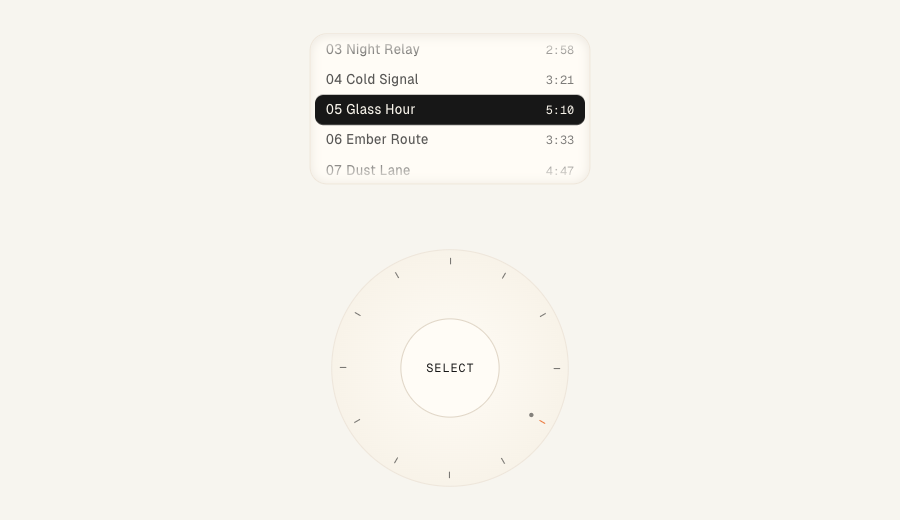
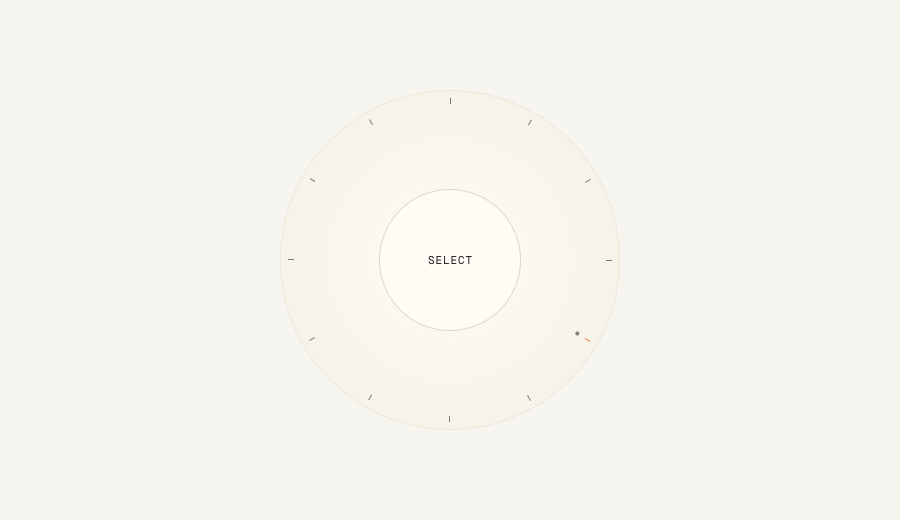
Pose the click wheel preview around the wheel

diff --git a/app/controls/click-wheel/page.tsx b/app/controls/click-wheel/page.tsx
@@ -81,9 +81,13 @@ export default function Page() {
       details={details}
       previewScaleClassName="w-[360px] scale-[0.9]"
       previewCaptureScaleClassName="w-[360px] scale-[1.08]"
+      previewLayout={isPreview ? "list" : "single"}
     >
       {isPreview ? (
-        <ClickWheel items={TRACKS} value={4} attract={false} />
+        // Preview pose: the wheel alone as the hero, centred in the 900x520 clip. Lit detent at value 4.
+        <div className="flex w-full justify-center">
+          <ClickWheel items={TRACKS} value={4} attract={false} layout="wheel-only" size={340} />
+        </div>
       ) : (
         <ClickWheel
           items={TRACKS}
